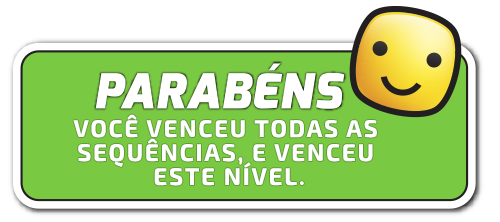
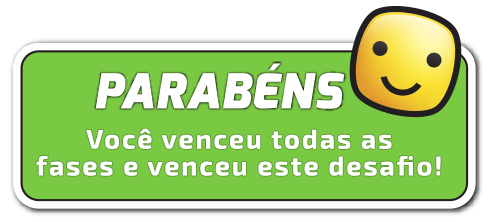
alteracoes solicitadas 003

Changed region(s): [[0.06, 0.5135, 0.9, 0.8378]]

diff --git a/src/js/game/states/preloadState.js b/src/js/game/states/preloadState.js
@@ -55,6 +55,7 @@ function precarregarPreload() {
     game.load.image('tentarNovamente', 'assets/tentarNovamente.png');
     game.load.image('proximoNivel', 'assets/proximoNivel.png');
     game.load.image('venceuNivel', 'assets/venceuNivel.png');
+    game.load.image('proximoDesafio', 'assets/proximoDesafio.png');
     game.load.image('estatisticas', 'assets/estatisticas.png');
     game.load.spritesheet('lampada', 'assets/lampada.png', 70, 103, 2);
     game.load.audiosprite('sfx', ['assets/sounds/spriteJson/sprite.ogg', 'assets/sounds/spriteJson/sprite.m4a'], null, sfxJson);

diff --git a/src/js/game/main/modalsGen.js b/src/js/game/main/modalsGen.js
@@ -75,7 +75,7 @@ function createModals() {
             },
             {
                 type: "image",
-                content: "proximoNivel",
+                content: "proximoDesafio",
                 offsetY: 90,
                 offsetX: 0,
                 callback: function () {
